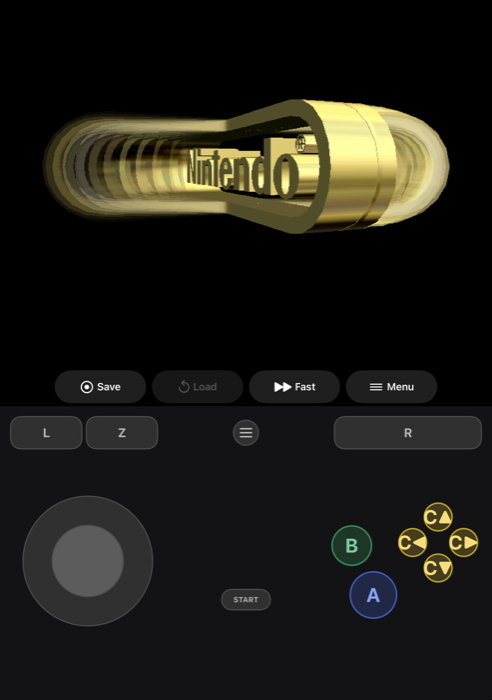
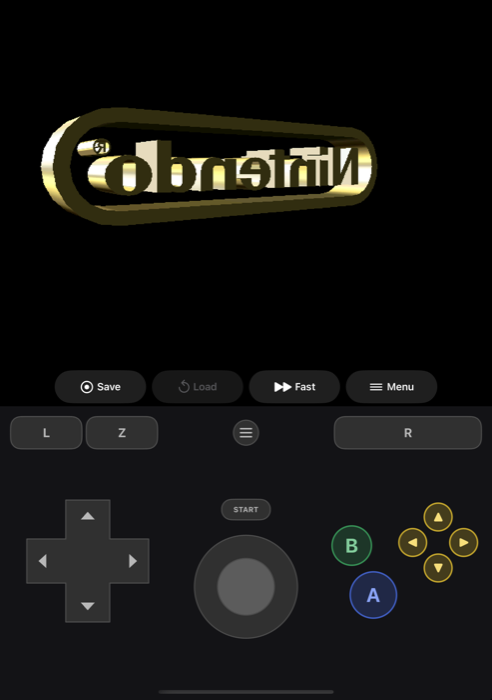
N64 pad: d-pad on the left, analog stick in the middle, arrow-only C buttons
Matches the real controller's three prongs; Start sits above the stick. The yellow C
buttons show just their arrows on the touch pad (the mapping screen keeps 'C▲' etc).
Tests check the stick clears the d-pad and buttons.

diff --git a/App/Input/ControllerLayout.swift b/App/Input/ControllerLayout.swift
@@ -164,6 +164,11 @@ struct ControllerLayout: Equatable, Sendable {
         if wantsSticks {
             size = max(60, min(size, (area.width - 4 * stickR - stickGap - 2 * clusterGap) / 2))
         }
+        // N64: d-pad left, analog stick in the middle (the pad's centre prong), buttons right.
+        let n64StickR: CGFloat = pad == .n64 ? Self.clamp(area.width * 0.11, 36, 70) : 0
+        if pad == .n64 {
+            size = max(60, min(size, (area.width - 2 * n64StickR - 2 * clusterGap) / 2))
+        }
 
         // Vertical placement: overlay hugs the bottom edge; the panel centers the clusters in
         // the space below the shoulder bar.
@@ -176,8 +181,7 @@ struct ControllerLayout: Equatable, Sendable {
         }
 
         dpadCenter = CGPoint(x: area.minX + size / 2, y: clusterY)
-        // N64: the analog stick takes the d-pad's place (the d-pad stays on physical pads).
-        dpadRadius = pad == .n64 ? 0 : size / 2
+        dpadRadius = pad == .n64 ? size * 0.42 : size / 2
         faceCenter = CGPoint(x: area.maxX - size / 2, y: clusterY)
         faceSpacing = size * Self.faceSpacingScale(pad)
         faceRadius = size * Self.faceRadiusScale(pad)
@@ -210,10 +214,12 @@ struct ControllerLayout: Equatable, Sendable {
         }
 
         if pad == .n64 {
-            // One analog stick, where the d-pad would be.
-            stickRadius = size * 0.42
-            leftStickCenter = dpadCenter
+            // One analog stick in the middle, low, with Start above it.
+            let y = min(clusterY + size / 2 - n64StickR, area.maxY - n64StickR)
+            stickRadius = n64StickR
+            leftStickCenter = CGPoint(x: area.midX, y: y)
             rightStickCenter = .zero
+            ssY = max(area.minY + topReserved, y - n64StickR - max(16, n64StickR * 0.3) - ssH)
         } else if wantsSticks {
             // Sticks as low as the area allows, with a thumb's clearance up to Select/Start.
             let y = area.maxY - stickR
@@ -328,7 +334,17 @@ struct ControllerLayout: Equatable, Sendable {
 
     /// Text printed on a face button, as on that console's pad.
     func label(for button: SNESButtons) -> String {
-        ButtonLabels.label(button, pad: pad, system: system)
+        // The N64's yellow buttons just show their arrow (the mapping screen says "C▲").
+        if pad == .n64 {
+            switch button {
+            case .cUp: return "▲"
+            case .cDown: return "▼"
+            case .cLeft: return "◀"
+            case .cRight: return "▶"
+            default: break
+            }
+        }
+        return ButtonLabels.label(button, pad: pad, system: system)
     }
 
     // MARK: Hit-testing

diff --git a/Tests/N64Tests.swift b/Tests/N64Tests.swift
@@ -12,12 +12,23 @@ final class N64Tests: XCTestCase {
         XCTAssertEqual(BoxArtDownloader.folder(for: .n64), "Nintendo - Nintendo 64")
     }
 
-    func testPadHasStickButtonsAndNoTouchDpad() {
+    func testPadHasDpadStickAndButtons() {
         for size in [CGSize(width: 669, height: 401), CGSize(width: 466, height: 330)] {
             let l = ControllerLayout(bounds: CGRect(origin: .zero, size: size), style: .panel, system: .n64)
-            XCTAssertEqual(l.dpadRadius, 0, "the analog stick replaces the d-pad")
+            XCTAssertGreaterThan(l.dpadRadius, 30, "the N64 pad has a d-pad (left prong)")
+            XCTAssertEqual(l.control(at: l.dpadCenter), .dpad)
             XCTAssertEqual(l.stickCount, 1)
+            XCTAssertEqual(l.leftStickCenter.x, size.width / 2, accuracy: 1, "stick in the middle prong")
             XCTAssertEqual(l.control(at: l.leftStickCenter), .stick(0))
+            let stick = l.leftStickCenter, r = l.stickRadius
+            XCTAssertGreaterThanOrEqual(hypot(stick.x - l.dpadCenter.x, stick.y - l.dpadCenter.y) - r - l.dpadRadius, 12,
+                                        "stick crowds the d-pad at \(size)")
+            for (button, center) in l.faceButtons {
+                XCTAssertGreaterThanOrEqual(hypot(stick.x - center.x, stick.y - center.y) - r - l.radius(for: button), 12,
+                                            "stick crowds a button at \(size)")
+            }
+            XCTAssertLessThanOrEqual(l.startRect.maxY, stick.y - r, "Start above the stick")
+            XCTAssertEqual(l.label(for: .cUp), "▲", "arrows only on the yellow buttons")
             XCTAssertFalse(l.zRect.isNull)
             XCTAssertFalse(l.zRect.intersects(l.lRect), "Z beside L")
             XCTAssertTrue(l.selectRect.isNull)

diff --git a/App/Input/TouchControllerView.swift b/App/Input/TouchControllerView.swift
@@ -280,8 +280,7 @@ private final class ControllerSkin: CALayer {
         let labelColor = panel ? UIColor(white: 0.72, alpha: 1) : UIColor(white: 1, alpha: 0.70)
         let labelPressed = UIColor(white: 1, alpha: 0.95)
 
-        // D-pad: base cross, then one highlight arm per direction drawn on top. (The N64
-        // pad has none on screen; its analog stick sits there.)
+        // D-pad: base cross, then one highlight arm per direction drawn on top.
         if layout.dpadRadius > 0 {
             let c = layout.dpadCenter, r = layout.dpadRadius * 0.94, w = layout.dpadRadius * 0.68
             let cross = Self.crossPath(center: c, radius: r, armWidth: w)
@@ -326,7 +325,8 @@ private final class ControllerSkin: CALayer {
                                    stroke: color.withAlphaComponent(panel ? 0.75 : 0.55))
             shape.lineWidth = 2
             addSublayer(shape)
-            let label = Self.text(layout.label(for: button), in: rect, size: fontSize,
+            let label = Self.text(layout.label(for: button), in: rect,
+                                  size: layout.pad == .n64 && radius < layout.faceRadius * 0.7 ? fontSize * 0.7 : fontSize,
                                   color: Self.lighten(color), scale: scale)
             addSublayer(label)
             parts.append(Part(shape: shape, label: label, buttons: button, fill: fill.cgColor,
